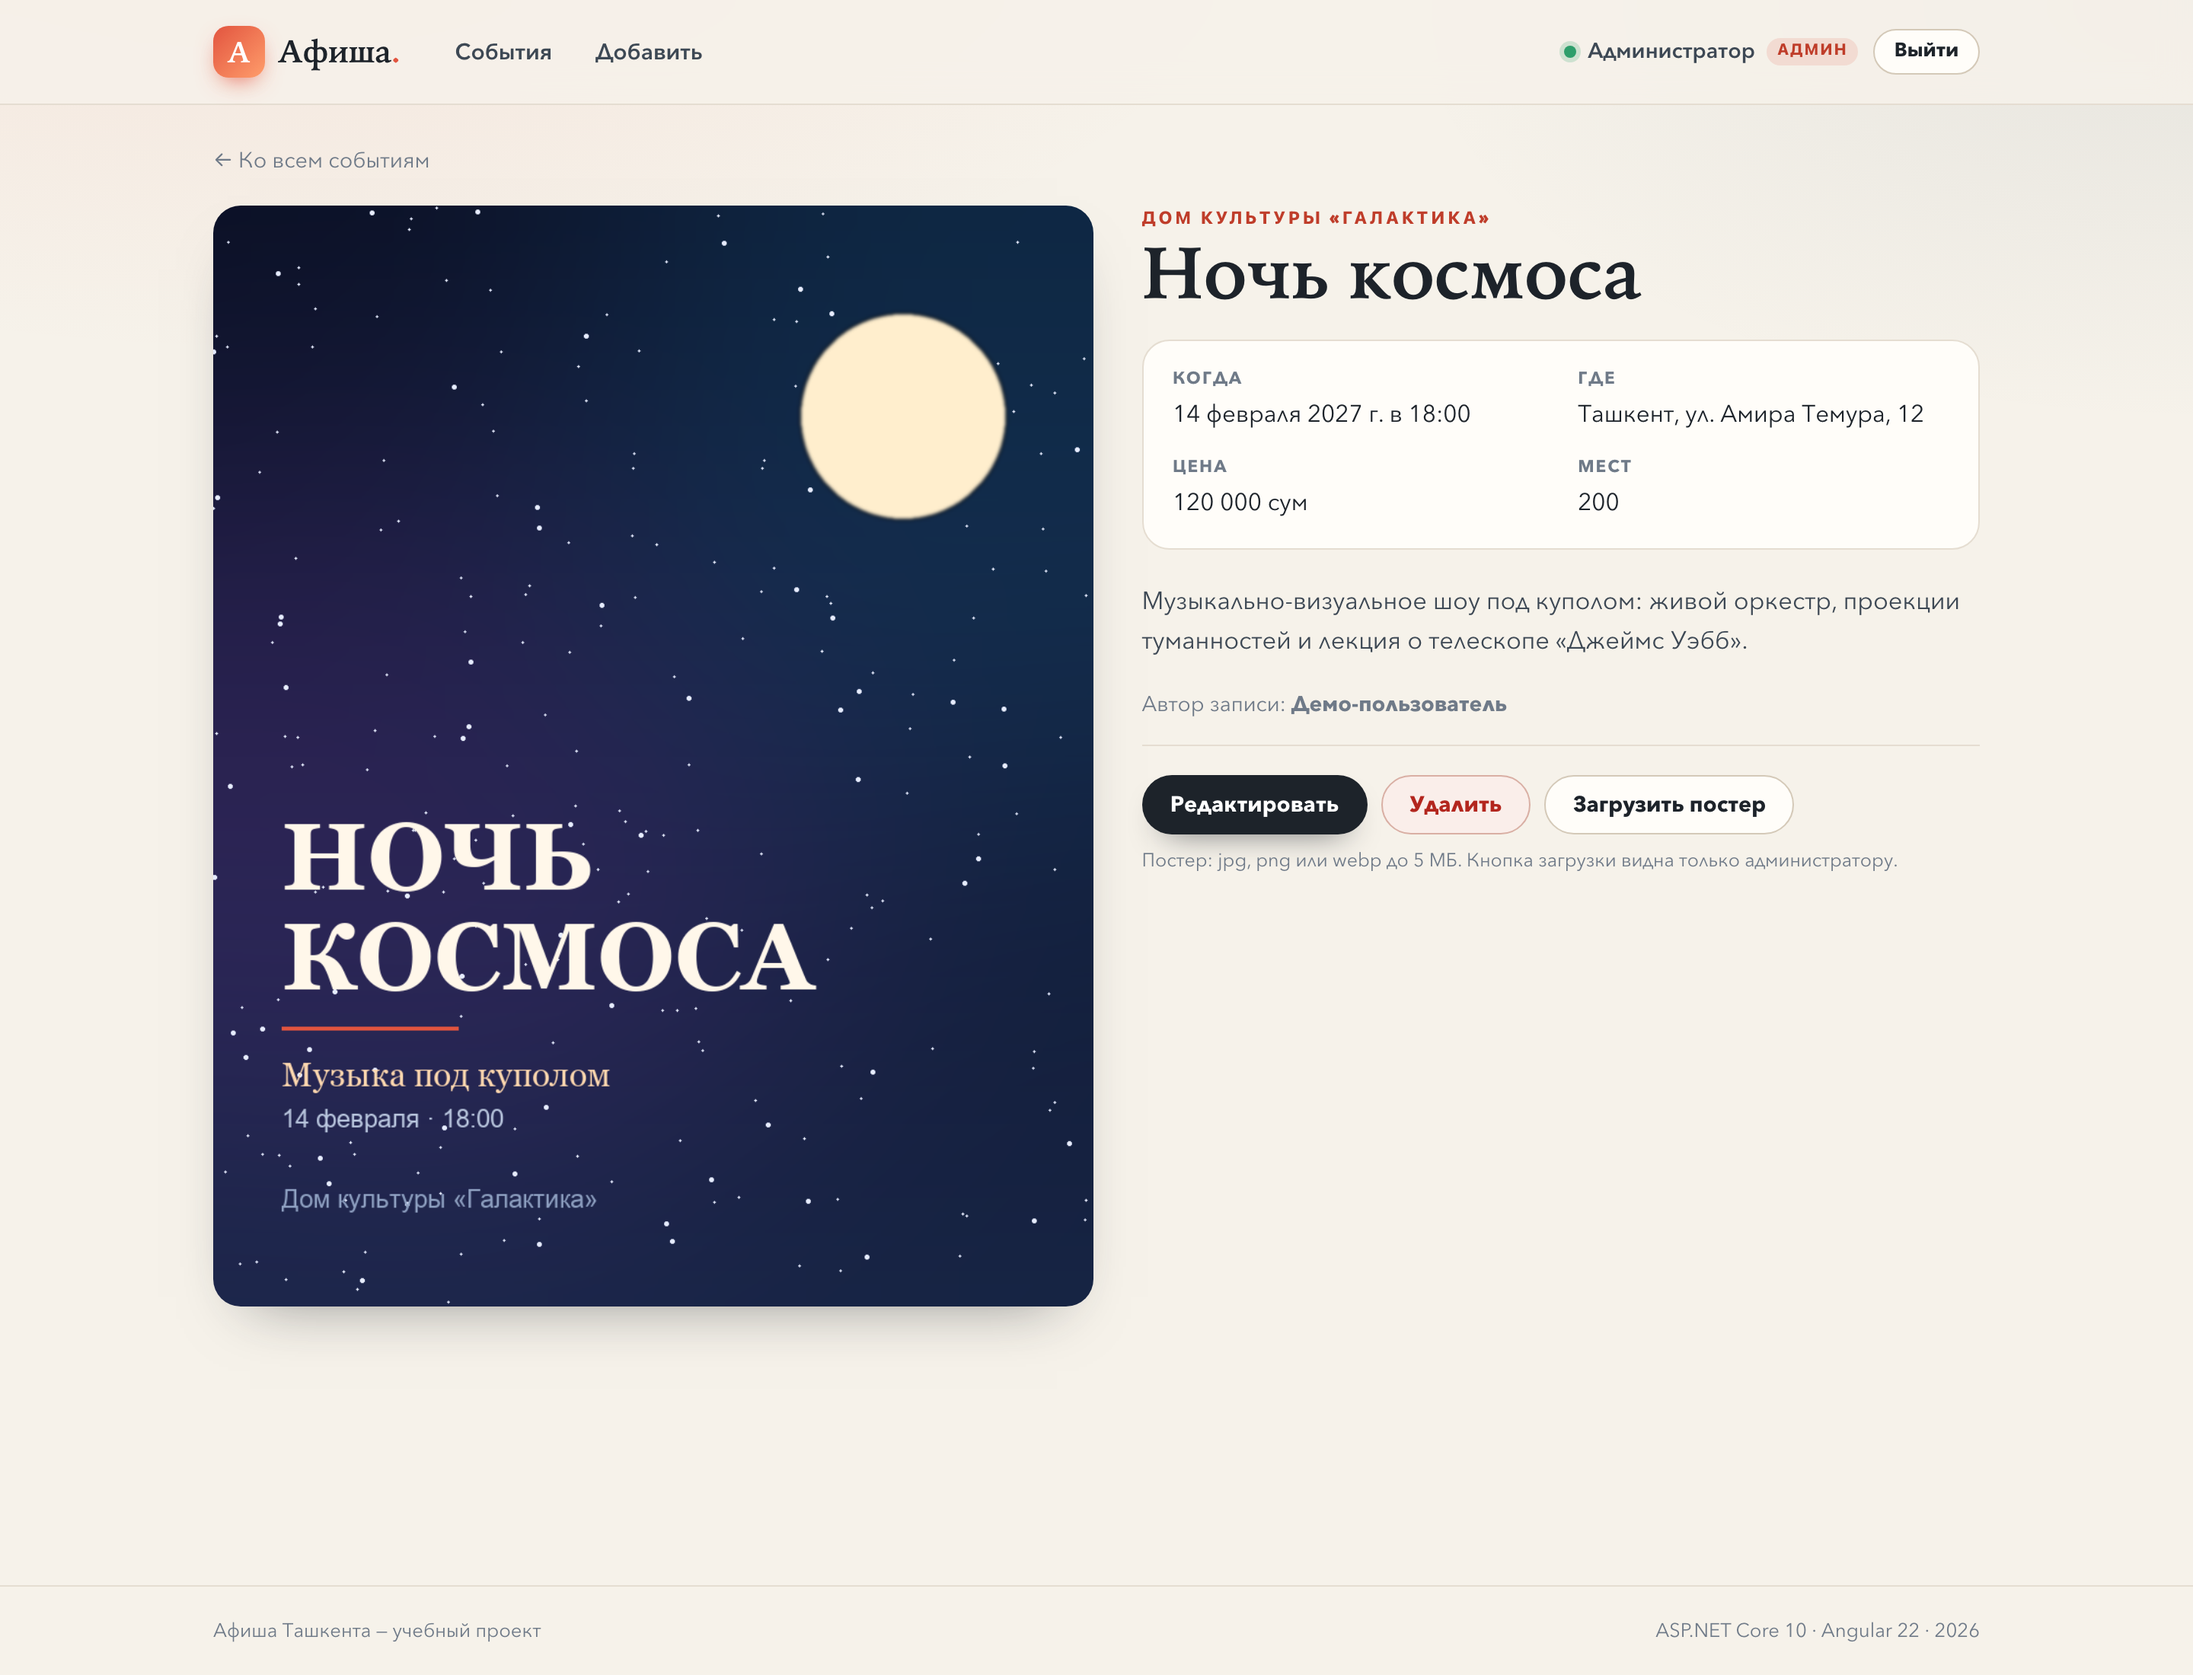
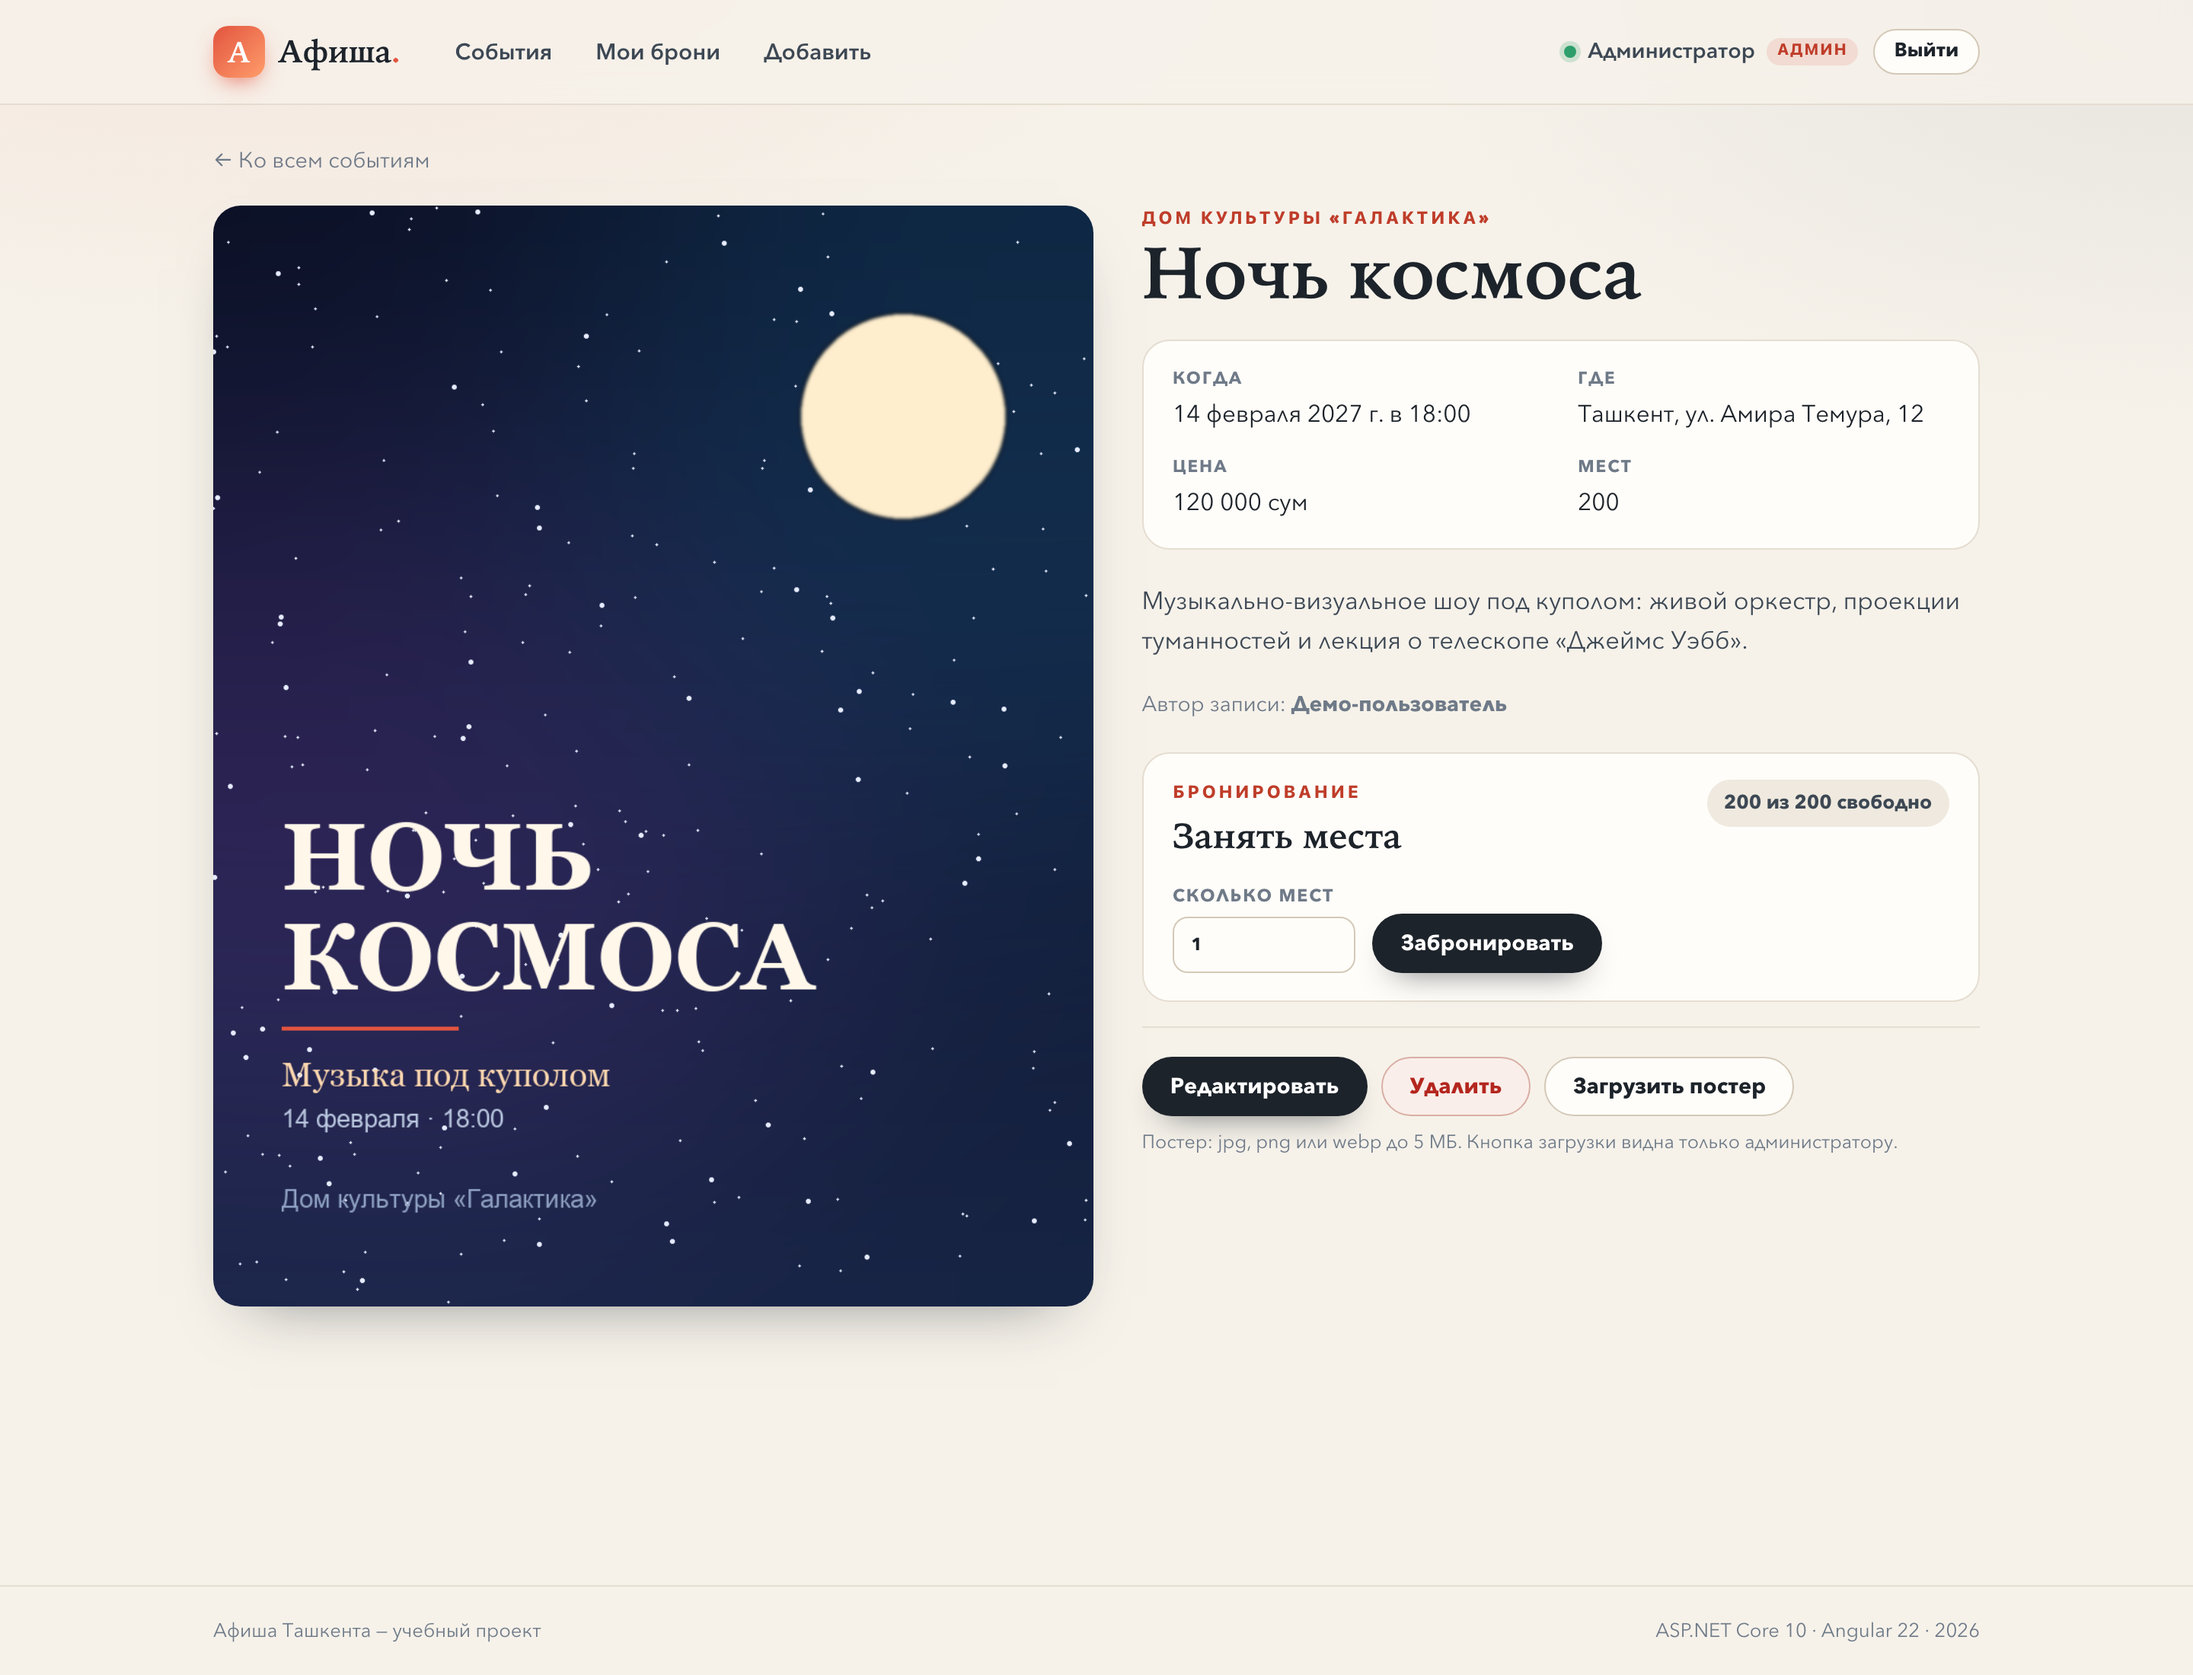
docs: описать бронирование, обновить .http и скриншоты

diff --git a/docs/code/10-bookings.md b/docs/code/10-bookings.md
@@ -1,0 +1,191 @@
+# 10. Бронирование мест
+
+Дополнение к разбору: любой вошедший пользователь может забронировать места на
+будущее мероприятие, посмотреть свои брони и отменить их. Управление афишей при
+этом остаётся только у администратора.
+
+## Схема данных
+
+```
+Users 1 ─── N Reservations N ─── 1 Events
+```
+
+`backend/Afisha.Api/Models/Reservation.cs`:
+
+```csharp
+public class Reservation
+{
+    public int Id { get; set; }
+
+    public int EventId { get; set; }
+    public Event Event { get; set; } = null!;
+
+    public int UserId { get; set; }
+    public User User { get; set; } = null!;
+
+    /// <summary>Сколько мест забронировано.</summary>
+    public int Seats { get; set; }
+
+    public DateTime CreatedAt { get; set; } = DateTime.UtcNow;
+}
+```
+
+В `AppDbContext`:
+
+```csharp
+public DbSet<Reservation> Reservations => Set<Reservation>();
+
+modelBuilder.Entity<Reservation>(reservation =>
+{
+    reservation.ToTable("Reservations");
+    reservation.HasOne(r => r.Event)
+        .WithMany(e => e.Reservations)
+        .HasForeignKey(r => r.EventId)
+        .OnDelete(DeleteBehavior.Cascade); // удалили событие — удалились брони
+    reservation.HasOne(r => r.User)
+        .WithMany(u => u.Reservations)
+        .HasForeignKey(r => r.UserId)
+        .OnDelete(DeleteBehavior.Restrict);
+    reservation.HasIndex(r => new { r.EventId, r.UserId }).IsUnique();
+});
+```
+
+`ON DELETE CASCADE` — событие удаляется, брони уходят вместе с ним. Уникальный
+индекс не даёт одному пользователю иметь две брони на одно событие.
+
+Миграция: `AddReservations` создаёт таблицу и индексы.
+
+## Сколько мест свободно
+
+Свободно = всего мест − сумма забронированных:
+
+```csharp
+var reserved = await db.Reservations
+    .Where(r => r.EventId == id)
+    .SumAsync(r => (int?)r.Seats, ct) ?? 0;
+
+var available = entity.Seats - reserved;
+```
+
+В списке событий это считается подзапросом в проекции:
+
+```csharp
+e.Seats,
+e.Reservations.Sum(r => (int?)r.Seats) ?? 0,
+e.Seats - (e.Reservations.Sum(r => (int?)r.Seats) ?? 0),
+```
+
+Именно поэтому в DTO появились `reservedSeats` и `availableSeats`.
+
+## Бронирование
+
+`POST /api/events/{id}/reservations`, тело `{ "seats": 2 }`, только с токеном.
+
+Проверки в `ReservationEndpoints.Reserve`:
+
+1. пользователь вошёл (`GetUserId`) — иначе 401;
+2. событие существует — иначе 404;
+3. событие ещё не началось — иначе 400 «Бронирование закрыто»;
+4. запрошено не больше свободных мест — иначе 400 с `errors.seats`;
+5. у пользователя ещё нет брони на это событие — иначе 400;
+6. запись сохраняется в транзакции, ответ — `201 Created`.
+
+```csharp
+await using var transaction = await db.Database.BeginTransactionAsync(ct);
+
+var reservedSeats = await db.Reservations
+    .Where(r => r.EventId == id)
+    .SumAsync(r => (int?)r.Seats, ct) ?? 0;
+var availableSeats = entity.Seats - reservedSeats;
+
+if (request.Seats > availableSeats)
+{
+    return Results.ValidationProblem(new Dictionary<string, string[]>
+    {
+        ["seats"] = [$"Свободных мест осталось: {availableSeats}."],
+    });
+}
+```
+
+Валидатор `ReservationRequestValidator` разрешает 1–50 мест, а сервер дополнительно
+проверяет фактическое наличие.
+
+## Мои брони
+
+`GET /api/reservations/my` возвращает брони текущего пользователя:
+
+```csharp
+var items = await db.Reservations
+    .AsNoTracking()
+    .Where(r => r.UserId == userId)
+    .OrderBy(r => r.Event.StartsAt)
+    .Select(r => new ReservationDto(
+        r.Id, r.EventId, r.Event.Title,
+        DateTime.SpecifyKind(r.Event.StartsAt, DateTimeKind.Utc),
+        r.Event.Venue.Name, r.Seats,
+        DateTime.SpecifyKind(r.CreatedAt, DateTimeKind.Utc)))
+    .ToListAsync(ct);
+```
+
+## Отмена
+
+`DELETE /api/reservations/{id}`:
+
+- 404 — брони нет;
+- 403 — бронь принадлежит другому пользователю;
+- 204 — своя бронь удалена.
+
+## Ограничение для администратора
+
+Если администратор уменьшает `Seats` у события, сервер проверяет, что новое
+значение не меньше суммы броней:
+
+```csharp
+var reservedSeats = await db.Reservations
+    .Where(r => r.EventId == id)
+    .SumAsync(r => (int?)r.Seats, ct) ?? 0;
+
+if (request.Seats < reservedSeats)
+{
+    return Results.ValidationProblem(new Dictionary<string, string[]>
+    {
+        ["seats"] = [$"Уже забронировано {reservedSeats} мест..."],
+    });
+}
+```
+
+Иначе места «исчезли» бы из-под уже забронировавших.
+
+## Клиент
+
+- `EventService.myReservationsResource()` — `httpResource` на `/api/reservations/my`,
+  запрос идёт только если пользователь вошёл.
+- `EventService.reserve()` — POST, `cancelReservation()` — DELETE.
+- На странице события: блок «Занять места», количество свободных мест, форма,
+  кнопка «Отменить бронь» для своей брони.
+- Страница `/my-bookings` — «Мои брони»: список, даты, места, отмена; четыре
+  состояния (загрузка/ошибка/пусто/данные).
+- В карточке списка выводится «X из Y свободно».
+
+## Как проверить
+
+```bash
+# вход обычным пользователем
+TOKEN=$(curl -s -X POST http://localhost:5055/api/auth/login \
+  -H 'Content-Type: application/json' \
+  -d '{"email":"demo@afisha.local","password":"Demo12345"}' | jq -r .token)
+
+# занять 2 места
+curl -s -X POST http://localhost:5055/api/events/2/reservations \
+  -H "Authorization: Bearer $TOKEN" \
+  -H 'Content-Type: application/json' -d '{"seats":2}'
+
+# мои брони
+curl -s http://localhost:5055/api/reservations/my -H "Authorization: Bearer $TOKEN"
+
+# отмена (id из ответа выше)
+curl -i -X DELETE http://localhost:5055/api/reservations/1 -H "Authorization: Bearer $TOKEN"
+```
+
+В браузере: войти как `demo@afisha.local` → открыть событие → «Забронировать» →
+«Мои брони» в шапке → «Отменить».
